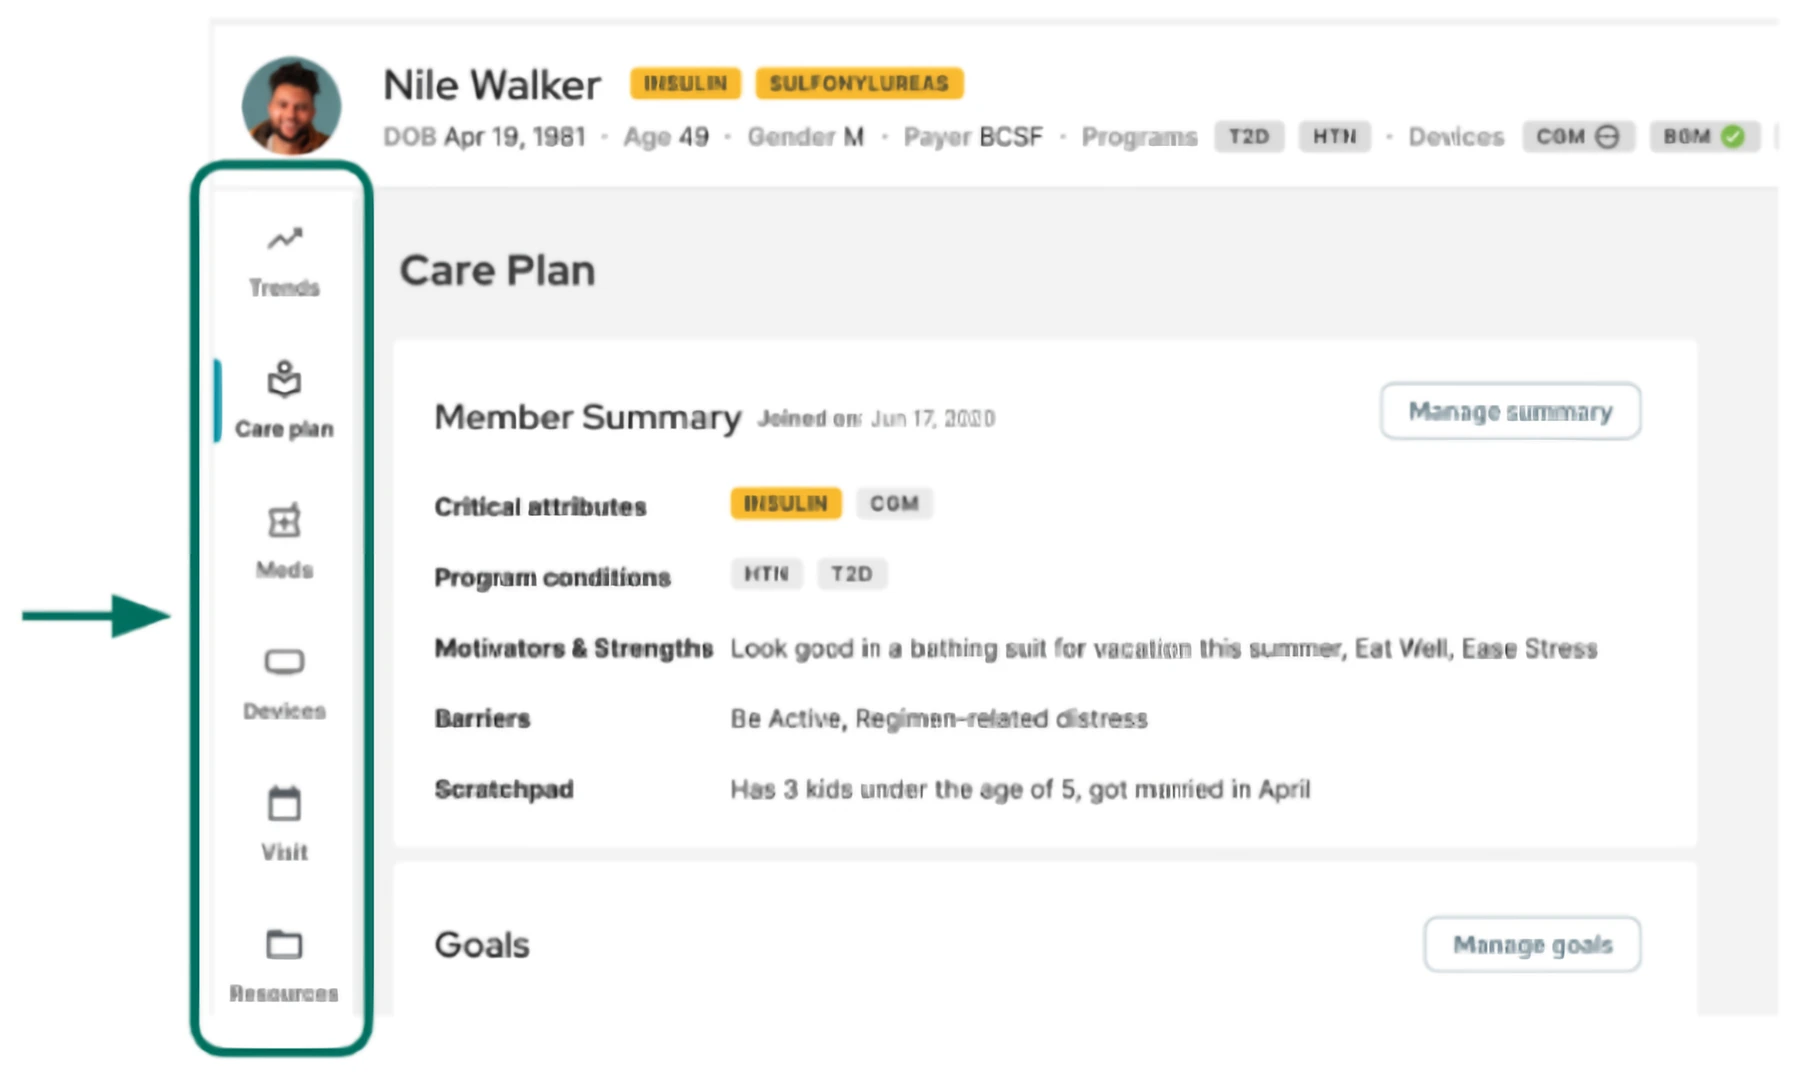
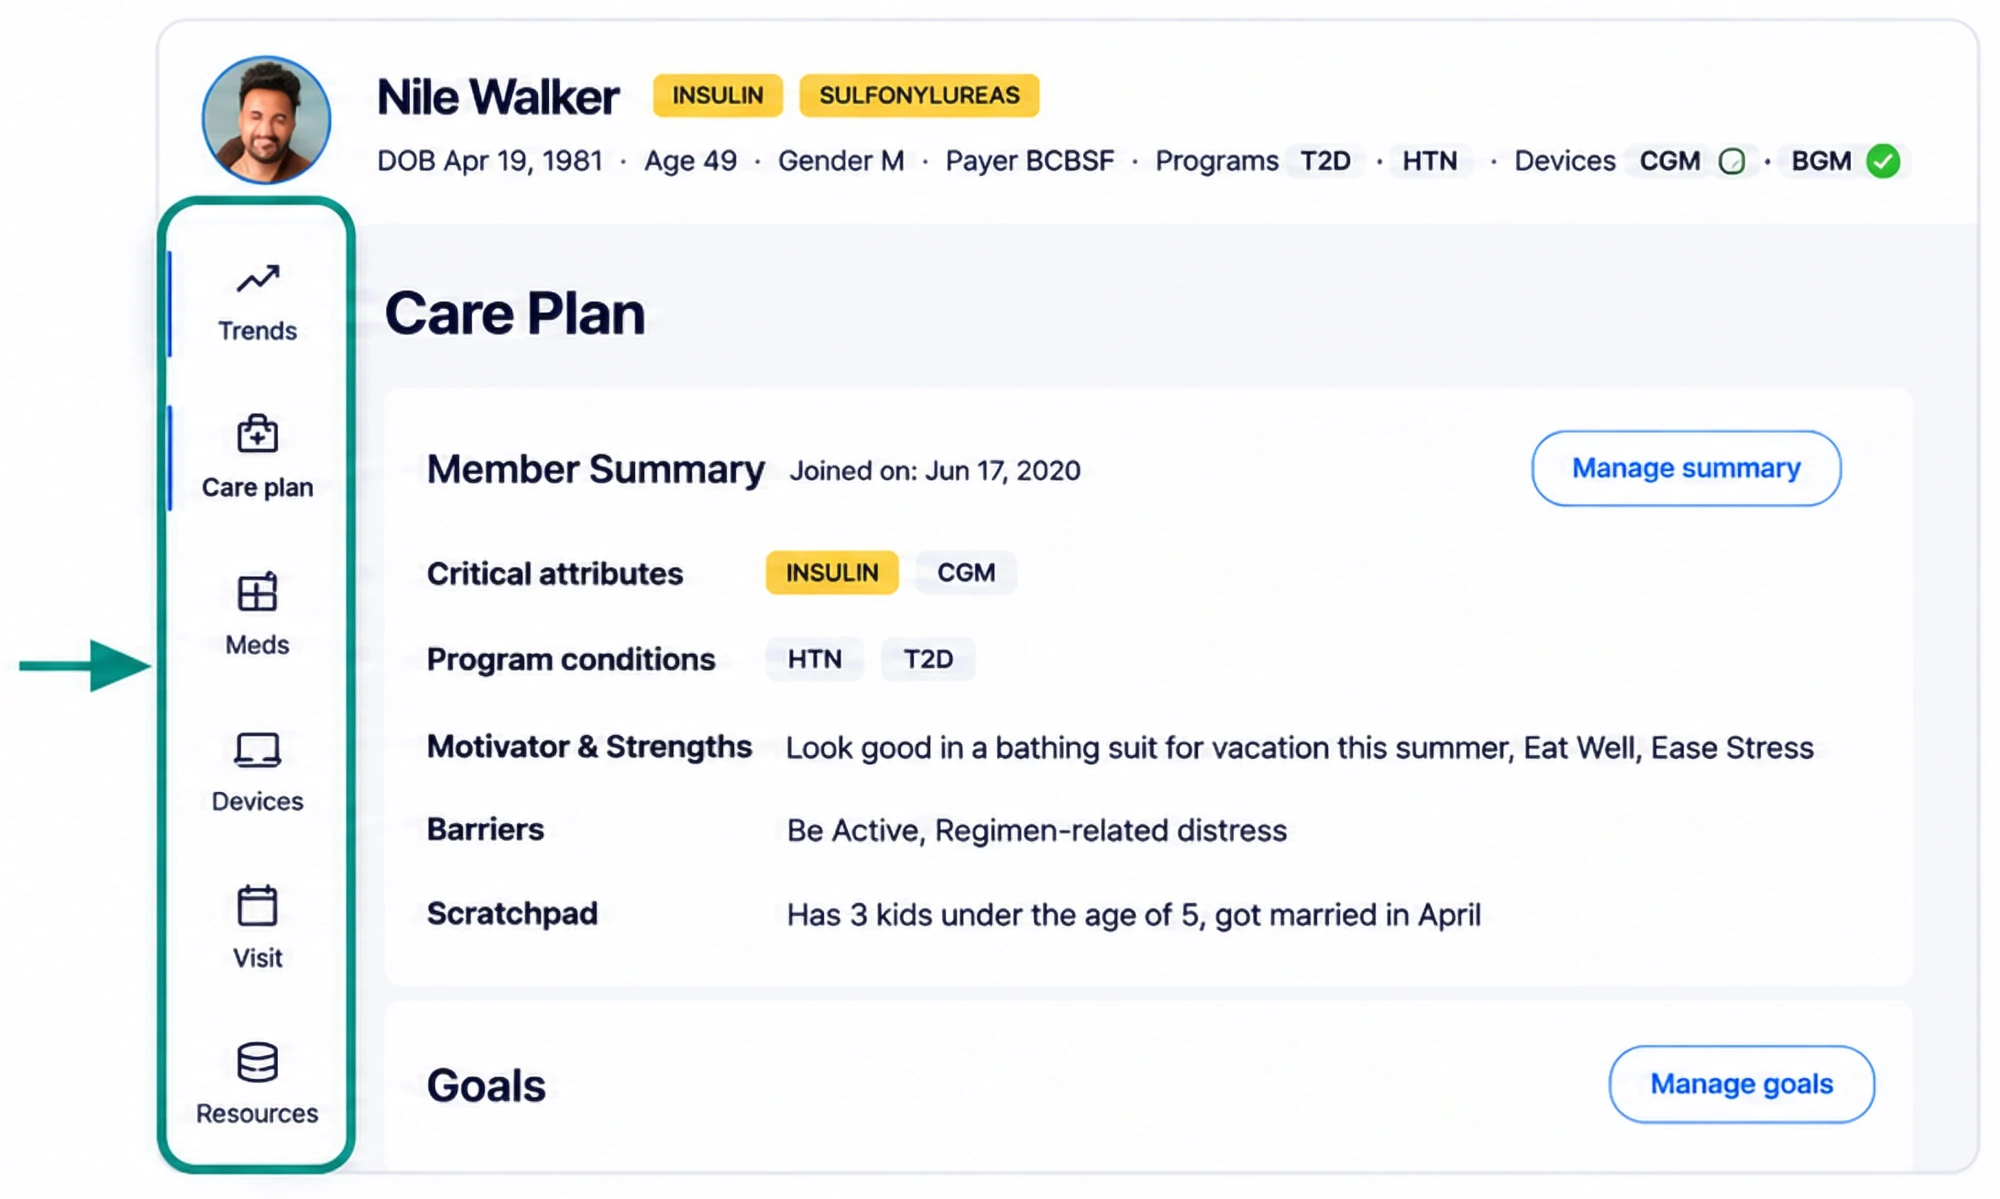
Add files via upload

Changed region(s): [[0.0, 0.0305, 0.9956, 1.0], [0.7467, 0.3358, 0.9333, 0.4274], [0.7778, 0.8548, 0.9333, 0.9463]]

diff --git a/adisa-soren-portfolio/lightpath.html b/adisa-soren-portfolio/lightpath.html
@@ -295,7 +295,7 @@
         </div>
         <div class="grid console">
           <figure class="console__fig span-8">
-            <a href="assets/img/console-care-plan.webp" target="_blank" rel="noopener" aria-label="Open the care plan screenshot at full size"><img src="assets/img/console-care-plan.webp" width="1800" height="1081" loading="lazy" alt="The care console's Care Plan screen for an example member. A member summary lists critical attributes (insulin, CGM), program conditions (hypertension, type 2 diabetes), motivators and strengths, barriers and a scratchpad, with a Goals section below. The left rail links to Trends, Care plan, Meds, Devices, Visit and Resources."></a>
+            <a href="assets/img/console-care-plan.webp" target="_blank" rel="noopener" aria-label="Open the care plan screenshot at full size"><img src="assets/img/console-care-plan.webp" width="2000" height="1199" loading="lazy" alt="The care console's Care Plan screen for an example member. A member summary lists critical attributes (insulin, CGM), program conditions (hypertension, type 2 diabetes), motivators and strengths, barriers and a scratchpad, with a Goals section below. The left rail links to Trends, Care plan, Meds, Devices, Visit and Resources."></a>
           </figure>
           <div class="console__text stack span-4 start-9">
             <h3>Care plan</h3>
@@ -308,11 +308,11 @@
       <div class="group">
         <div class="grid console">
           <figure class="console__fig span-8">
-            <a href="assets/img/console-trends.webp" target="_blank" rel="noopener" aria-label="Open the trends screenshot at full size"><img src="assets/img/console-trends.webp" width="1800" height="1420" loading="lazy" alt="Two care console screens joined by arrows. Trends shows tiles for A1c (9.6%, above goal), glucose (1 reading in range per day against a goal of 2) and blood pressure (126/78, elevated). Clicking the glucose tile opens a Glucose view with daily and weekly tabs, average glucose of 118 mg/dL, time in range, readings in range and total steps."></a>
+            <a href="assets/img/console-trends.webp" target="_blank" rel="noopener" aria-label="Open the trends screenshot at full size"><img src="assets/img/console-trends.webp" width="1878" height="1440" loading="lazy" alt="Two care console screens joined by arrows. Trends shows tiles for A1c (9.6%, 1.0% over goal), glucose (last week, 1 reading in range per day against a goal of 2) and blood pressure (126/78, elevated). Clicking the glucose tile opens a Glucose view with daily and weekly tabs: average glucose 118 mg/dL against a 70 to 180 target, total time in range of 11 hours 30 minutes a day against a goal of 24 hours, 2 readings in range out of 3 against a goal of 2, and 4,829 steps against a goal of 6,500, with a Create patient report button."></a>
           </figure>
           <div class="console__text stack span-4 start-9">
             <h3>From a trend to the readings behind it</h3>
-            <p>Trends lead with A1c, glucose and blood pressure, each against the member’s goal. One click opens glucose, with daily and weekly views of readings, time in range and steps.</p>
+            <p>Trends lead with A1c, glucose and blood pressure, each against the member’s goal. One click opens glucose by day or week: average glucose against target, time and readings in range, steps, and a patient report.</p>
             <p>This click-through is the prep the LLM record summary was built to shorten.</p>
             <p class="t-small">Illustrative member data. Select an image to see it full size.</p>
           </div>
